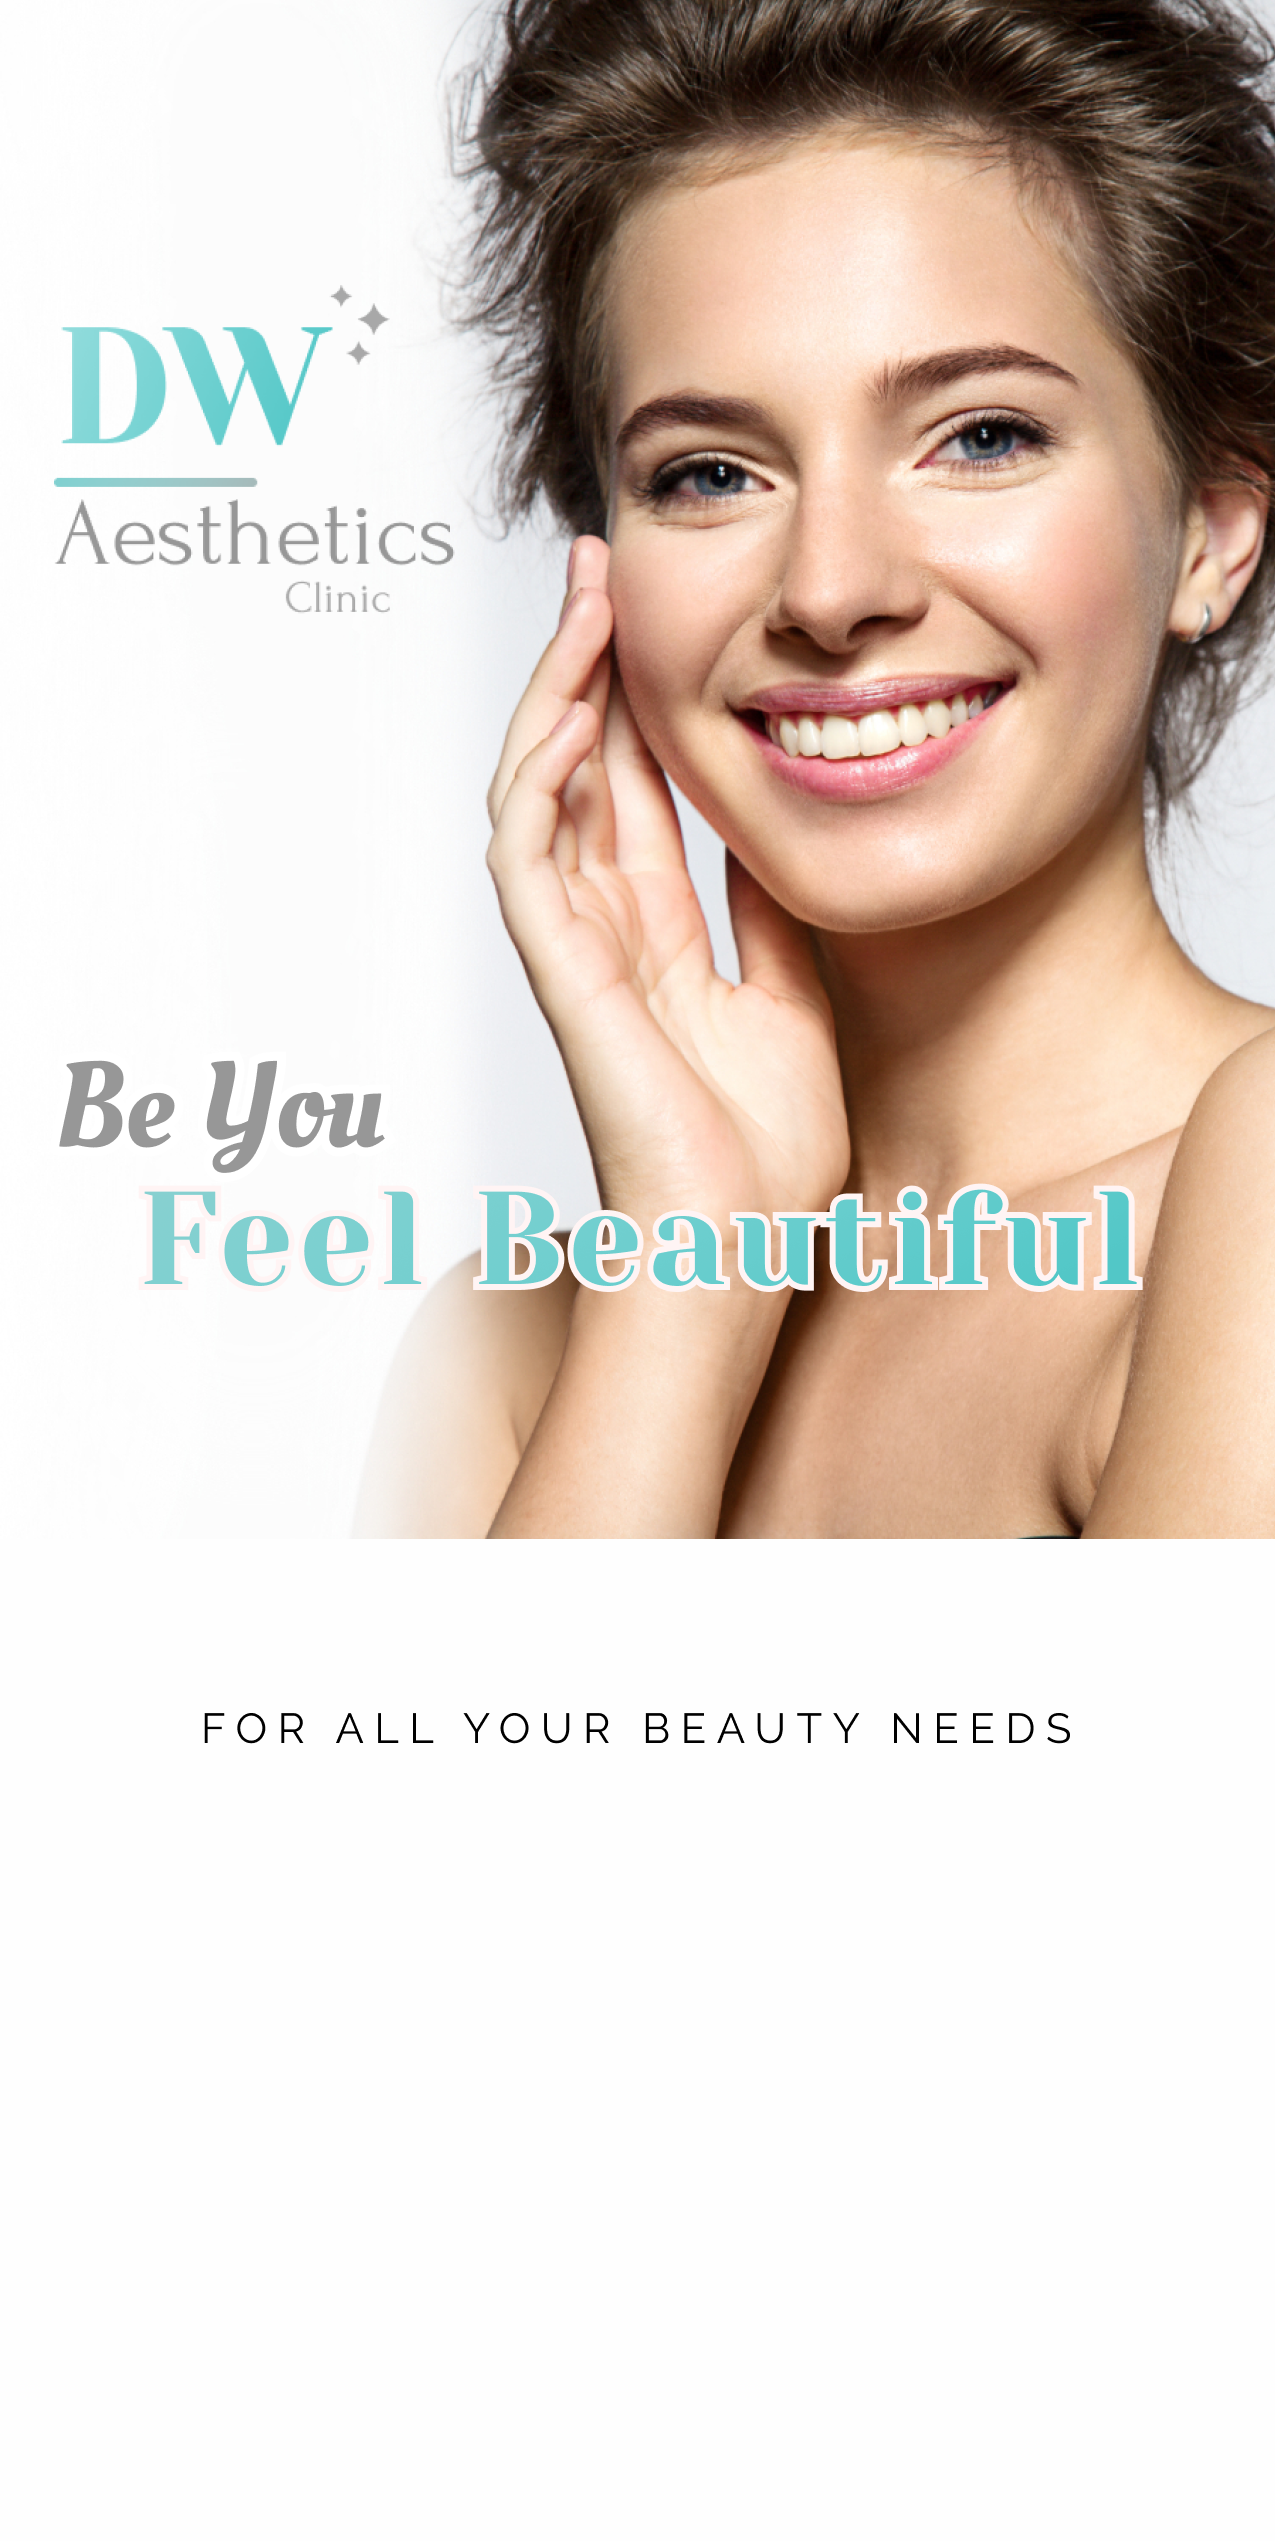
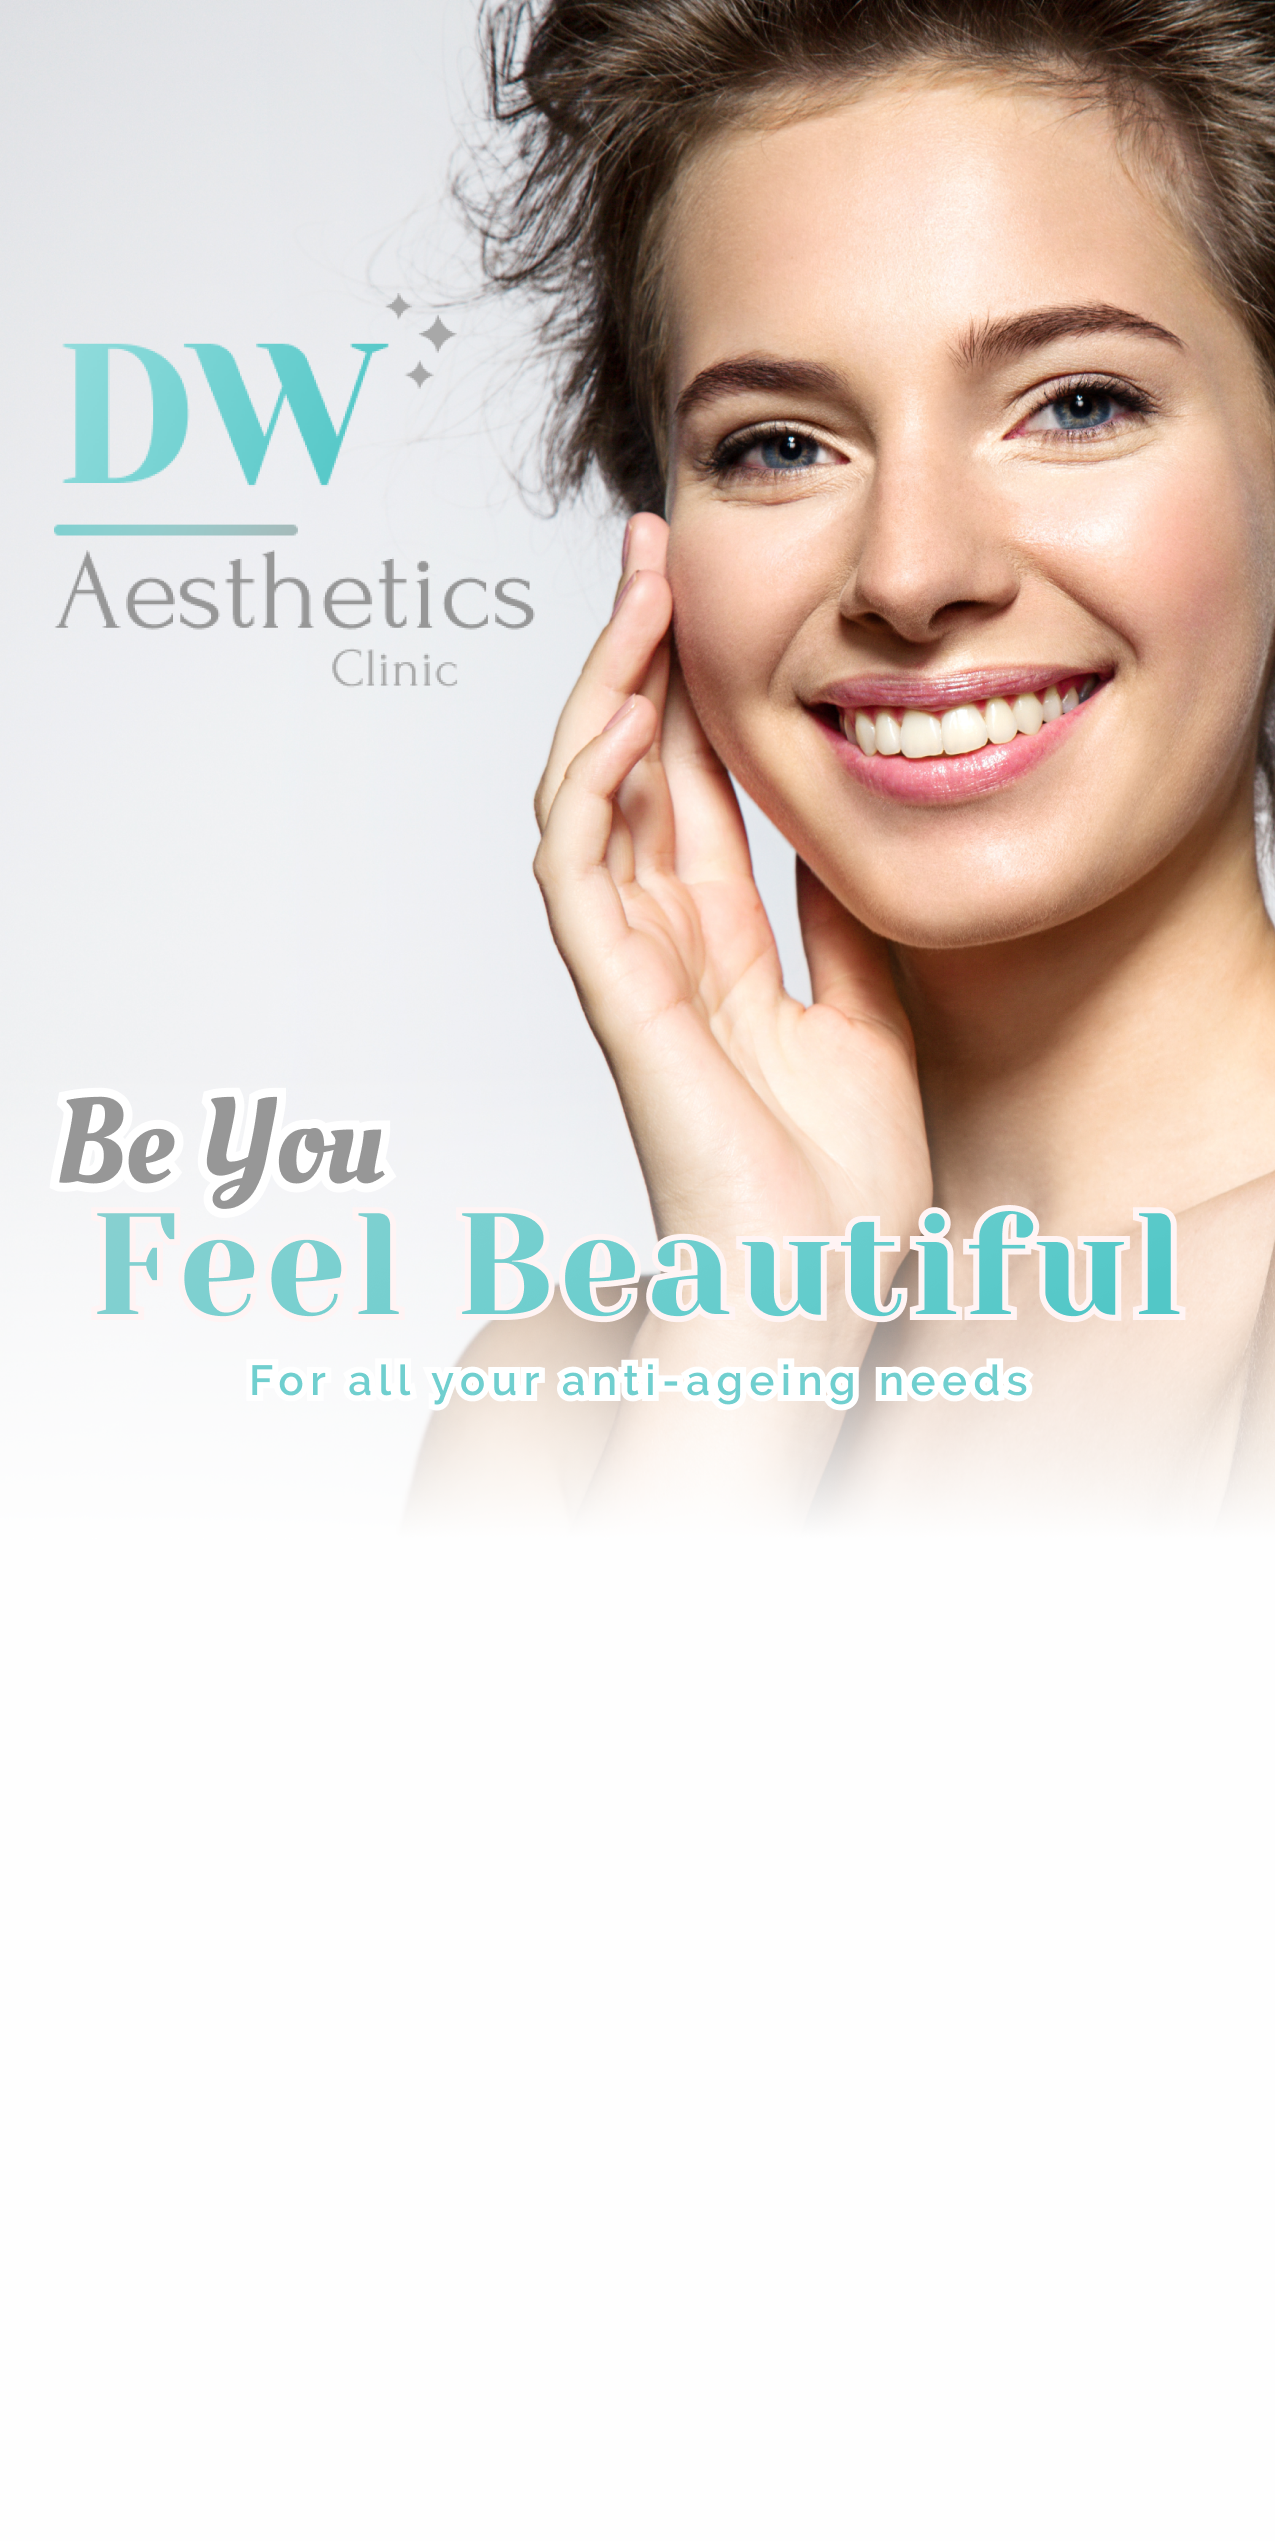
changed mobile home page layout

diff --git a/style.css b/style.css
@@ -240,6 +240,10 @@ a {
     z-index: 100;
 }
 
+.button2 {
+    display: none;
+}
+
 .button p {
     margin: 0 0 0 20px;
     white-space: nowrap;
@@ -266,10 +270,19 @@ a {
 #home-arrow-mobile {
     position: absolute;
     left: 50%;
-    margin-left: -51px;
-    width: 102px;
-    height: 66px;
+    margin-left: -25px;
+    width: 50px;
+    height: 36px;
     z-index: 200;
+    display: none;
+}
+
+.mobile-scroll-for-more {
+    font-family: "Raleway";
+    font-style: normal;
+    font-weight: 500;
+    font-size: 14px;
+    letter-spacing: 2px;
     display: none;
 }
 
@@ -1733,33 +1746,64 @@ footer section {
 
     #home-arrow-mobile {
         display: block;
-        top: 90vh;
+        top: 94vh;
     }
 
     #landing {
         background-image: url("imgs/mobile-banner.png");
         background-size: cover;
+        width: 100%;
     }
 
     .main {
-        margin-top: 95vh;
+        margin-top: 97vh;
     }
 
     .button {
         position: relative;
-        top: 73vh;
-        width: 330px;
-        height: 73px;
+        top: 70vh;
+        width: 340px;
+        height: 55px;
         left: 50%;
-        margin-left: -165.5px;
-        background-color: #65CDCD;
-        border: 4px solid #4B4B4B;
+        margin-left: -170px;
+        background: #E8E8E8;
+        border: 3px solid #434343;
+    }
+
+    .button2 {
+        margin-top: 15px;
+        display: block;
+        position: relative;
+        top: 70vh;
+        width: 340px;
+        height: 55px;
+        left: 50%;
+        margin-left: -170px;
+        background: #E8E8E8;
+        border: 3px solid #434343;
+        letter-spacing: 3px;
     }
 
     .button p {
-        color: white;
+        color: black;
         margin: 0;
         font-weight: 600;
+    }
+
+    .button2 p {
+        font-size: 14px;
+        font-family: "Raleway";
+        color: black;
+        margin: 0;
+        font-weight: 600;
+    }
+
+    .mobile-scroll-for-more {
+        display: block;
+        position: absolute;
+        bottom:6vh;
+        width: 100%;
+        text-align: center;
     }
 
     .button img {

diff --git a/index.html b/index.html
@@ -89,9 +89,15 @@
         <section id="landing">
             <button class="button">
                 <a href="book.html">
+                    <p>VIEW OUR TREATMENTS</p>
+                </a> 
+            </button>  
+            <button class="button2">
+                <a href="book.html">
                     <p>BOOK AN APPOINTMENT</p>
                 </a> 
             </button>  
+            <p class="mobile-scroll-for-more">SCROLL FOR MORE</p>
         </section>
         <img id="home-arrow-desktop" src="imgs/arrowdowngrey.png" alt="">
         <img id="home-arrow-mobile" src="imgs/arrowupgreen.png" alt="">
